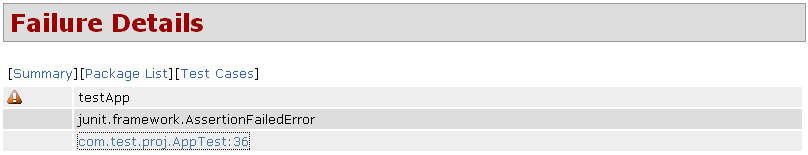
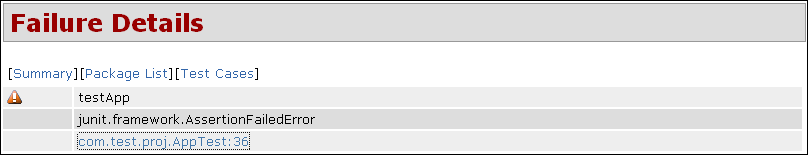
PR: MSUREFIREREP-24
-revised docs
-added borders to the images

git-svn-id: https://svn.apache.org/repos/asf/maven/plugins/trunk@424882 13f79535-47bb-0310-9956-ffa450edef68

Changed region(s): [[0.0, 0.0, 1.0, 1.0]]

diff --git a/maven-surefire-report-plugin/src/main/java/org/apache/maven/plugins/surefire/report/SurefireReportMojo.java b/maven-surefire-report-plugin/src/main/java/org/apache/maven/plugins/surefire/report/SurefireReportMojo.java
@@ -66,7 +66,7 @@ public class SurefireReportMojo
     private MavenProject project;
 
     /**
-     * If set to &lt;code&gt;false&lt;/code&gt;, only failures are shown.
+     * If set to false, only failures are shown.
      *
      * @parameter expression="${showSuccess}" default-value="true"
      * @required
@@ -74,7 +74,7 @@ public class SurefireReportMojo
     private boolean showSuccess;
 
     /**
-     * This directory contains the XML Report files that must be parsed and rendered to HTML format.
+     * This directory contains the XML Report files that will be parsed and rendered to HTML format.
      *
      * @parameter expression="${project.build.directory}/surefire-reports"
      * @required
@@ -82,7 +82,7 @@ public class SurefireReportMojo
     private File reportsDirectory;
 
     /**
-     * The default filename to use for the report.
+     * The filename to use for the report.
      *
      * @parameter expression="${outputName}" default-value="surefire-report"
      * @required
